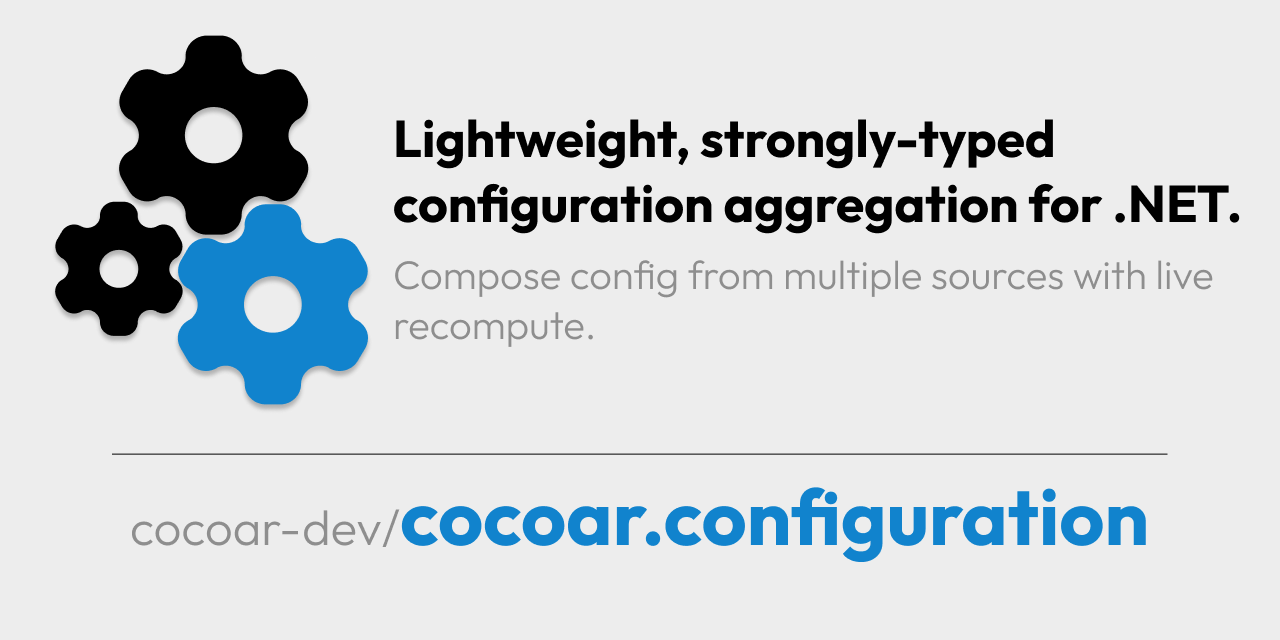
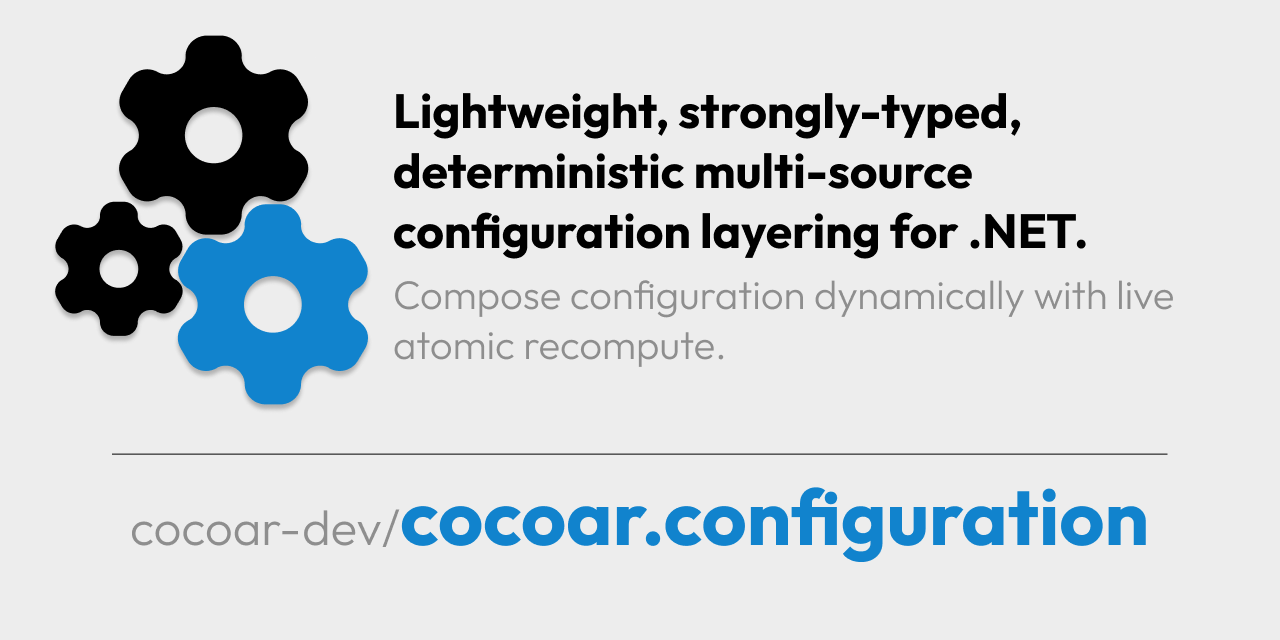
Update README and package metadata for clarity and accuracy; enhance descriptions and improve NuGet package details

Changed region(s): [[0.2812, 0.1562, 0.9688, 0.5625]]

diff --git a/README.md b/README.md
@@ -4,33 +4,53 @@
         <img src="social-preview.png" alt="Cocoar.Configuration" width="520" style="max-width:100%;height:auto;" />
 </p>
 
-Lightweight, strongly-typed configuration aggregation for .NET (current target framework: **net9.0**).
+Lightweight, strongly-typed, deterministic multi-source configuration layering for .NET (current target framework: **net9.0**).
 
-<!-- Badges (NuGet placeholder until published) -->
 ![Build (develop)](https://github.com/cocoar-dev/cocoar.configuration/actions/workflows/push-develop.yml/badge.svg)
 ![PR Validation](https://github.com/cocoar-dev/cocoar.configuration/actions/workflows/pr-develop.yml/badge.svg)
 ![License: MIT](https://img.shields.io/badge/license-MIT-blue.svg)
-<!-- Future: NuGet badge once package is public -->
-<!-- ![NuGet](https://img.shields.io/nuget/v/Cocoar.Configuration.svg) -->
+[![NuGet](https://img.shields.io/nuget/v/Cocoar.Configuration.svg)](https://www.nuget.org/packages/Cocoar.Configuration/)
+[![Downloads](https://img.shields.io/nuget/dt/Cocoar.Configuration.svg)](https://www.nuget.org/packages/Cocoar.Configuration/)
 
-> **At a glance**
-> * Layer multiple sources (files, environment variables, HTTP, adapters) with deterministic **last‑write‑wins** merge
-> * Providers return JSON objects; some emit change signals for live updates
-> * On any change a full ordered recompute occurs; result swap is atomic
-> * Direct DI access to your config types (no required `IConfiguration` / `IOptions` wrappers)
 
 ---
 
-## Supported Framework & Packages (Current State)
+## Why Cocoar Instead of Plain `IConfiguration`?
 
-Currently only **net9.0** is built. Multi-targeting can be added later.
+| Aspect | Cocoar.Configuration | Plain `IConfiguration` |
+|--------|----------------------|------------------------|
+| Strong typing | Inject concrete / interface config types directly | Bind then wrap in `IOptions<T>` |
+| Multi-source layering | Explicit ordered rule list (deterministic) | Registration / provider order sensitive |
+| Change handling | Atomic full recompute → consistent snapshot | Incremental lookups; per‑provider reload patterns |
+| Dynamic dependencies | Rules can read in‑progress snapshots | Manual / post-build wiring |
+| Extensibility | Generic provider base + fluent DSL | Implement `IConfigurationSource` / provider |
+| Diagnostics | Access merged snapshot per type | Traverse hierarchical keys manually |
+| Keyed DI & lifetimes | First-class (singleton/scoped/transient + keys) | Manual patterns |
 
-| Package | Description | TFM (current) |
-|---------|-------------|---------------|
-| `Cocoar.Configuration` | Core (File + Environment providers, merge orchestration) | net9.0 |
-| `Cocoar.Configuration.AspNetCore` | WebApplicationBuilder / DI convenience | net9.0 |
+> Use Cocoar when you want deterministic layering, atomic strongly‑typed snapshots, dynamic rule composition and simpler DI. Stick with plain `IConfiguration` for very basic hierarchical key/value scenarios where existing providers already suffice.
+
+---
+
+## At a Glance
+
+- Deterministic ordered merge (last-write-wins per key)
+- Strongly typed injection (no `IOptions` boilerplate required)
+- Change‑aware providers trigger atomic snapshot swaps
+- Dynamic rule factories (rules can depend on earlier config)
+- Extensible provider model (file, environment, HTTP, Microsoft adapter, custom)
+
+---
+
+## Packages & Target Framework
+
+Currently only **net9.0** is shipped. Multi-targeting (e.g. `net8.0`) may be added later.
+
+| Package | Description | TFM |
+|---------|-------------|-----|
+| `Cocoar.Configuration` | Core (file + environment providers, merge orchestration) | net9.0 |
+| `Cocoar.Configuration.AspNetCore` | WebApplicationBuilder / DI convenience extensions | net9.0 |
 | `Cocoar.Configuration.HttpPolling` | HTTP polling provider | net9.0 |
-| `Cocoar.Configuration.MicrosoftAdapter` | Adapter for Microsoft IConfigurationSource | net9.0 |
+| `Cocoar.Configuration.MicrosoftAdapter` | Adapter for Microsoft `IConfigurationSource` | net9.0 |
 
 ### Install (Example)
 ```xml
@@ -91,21 +111,6 @@ var settings = app.Services
 Console.WriteLine($"FeatureX: {settings.EnableFeatureX}, Cache: {settings.CacheSeconds}s");
 ```
 
-Example overlay (JSON + environment):
-```
-appsettings.json (optional):
-{
-    "App": {
-        "ConnectionString": "Server=localhost;Database=MyApp;",
-        "EnableFeatureX": false,
-        "CacheSeconds": 30
-    }
-}
-
-Environment variables:
-APP_EnableFeatureX=true
-APP_CacheSeconds=60
-```
 
 More examples (multi-project solution under `src/Examples/`):
 
@@ -126,16 +131,16 @@ dotnet run --project src/Examples/BasicUsage
 
 ---
 
-## Core Model (Rules, Providers, Merge, Dynamic)
+## Concepts
 
-- **Rule**: Defines source + query + target configuration type
-- **Provider**: Returns a JSON object (optionally emits change signals)
-- **Merge**: Flatten (`Section:Key`) → last-write-wins per key → unflatten → bind to target type
-- **Arrays**: Full replacement (no element-wise merge)
-- **Recompute**: Any change signal triggers full rebuild of all rules in declared order (simple & correct, not minimal)
-- **Dynamic dependencies**: Factories (options/query) may read in-progress snapshots (order matters)
-- **Required vs Optional**: Required failures block the type; optional failures skip that rule
-- **DI Lifetimes & Keyed Services**: Register as Singleton (default), Scoped or Transient (with optional service keys)
+- **Rule**: Defines source + optional query + target configuration type.
+- **Provider**: Pluggable source (file, environment, HTTP, adapter, static, custom) that may emit change notifications.
+- **Merge**: Ordered last-write-wins per flattened key (`Section:Key`) then rebound to your target type.
+- **Arrays**: Replaced as whole values (no element-wise merge) by design.
+- **Recompute**: Any emitting provider triggers full ordered recompute → atomic snapshot swap (simple & predictable).
+- **Dynamic dependencies**: Rule factories (options/query) can read in-progress snapshots produced earlier in the same recompute.
+- **Required vs Optional**: Required rule failure blocks that config type; optional failure skips the layer.
+- **DI Lifetimes & Keys**: Register config types as singleton (default), scoped, transient and/or keyed.
 
 ### Static Provider
 
@@ -161,7 +166,7 @@ Plug any Microsoft `IConfigurationSource` (JSON, XML, Key Vault, User Secrets, e
 Fetch configuration from HTTP endpoints with automatic polling. Only triggers recomputes when response actually changes.
 → Example: [`src/Examples/HttpPollingExample/Program.cs`](src/Examples/HttpPollingExample/Program.cs)
 
-## Providers (Overview)
+## Providers (Built-in & Extensions)
 
 | Provider | Package | Change Signal | Notes |
 |----------|---------|---------------|-------|
@@ -178,38 +183,18 @@ Fetch configuration from HTTP endpoints with automatic polling. Only triggers re
 - [HTTP Polling Provider](src/Cocoar.Configuration.HttpPolling/README.md) - HTTP endpoint polling _(separate package)_
 - [Microsoft Adapter](src/Cocoar.Configuration.MicrosoftAdapter/README.md) - IConfigurationSource integration _(separate package)_
 
-## API Overview
-
-**ConfigManager**
-| Method | Behavior |
-|--------|----------|
-| `GetConfig<T>()` | Snapshot or null; never throws |
-| `GetRequiredConfig<T>()` | Snapshot or exception if missing |
-| `TryGetConfig<T>(out T?)` | true + value if available; else false/null |
-| `GetConfigAsJson(Type)` | Merged JSON (or null) |
-
-**Rule Creation (Fluent)**
-| Entry | Description |
-|-------|-------------|
-| `Rule.From.File(...)` | JSON files (watcher + debounce) |
-| `Rule.From.Environment(...)` | Environment snapshot (optional prefix) |
-| `Rule.From.Http(...)` | (Extension) polling with change detection |
-| `Rule.From.Provider<TProv,TOpt,TQuery>(...)` | Generic provider entry point |
-| `Rule.From.Static(...)` | Static object (seeding / defaults) |
 
 Semantics: Use Optional for non-critical layers; Required enforces presence.
 
-## Extensibility (Third-Party Providers)
+### Extensibility
 
-Cocoar.Configuration is designed to be extensible. Third-party packages can add their own fluent entry points (like `Rule.From.MyProvider()`) without modifying the core library.
+Create third‑party providers by implementing the generic provider base and adding fluent entry points (e.g. `Rule.From.MyProvider()`). See the [Provider Development Guide](src/Cocoar.Configuration/Providers/README.md) for:
+- Custom provider implementation patterns
+- Fluent API extension guidance
+- Instance lifecycle & change emission
+- Testing strategies
 
-**For provider developers:** See the [Provider Development Guide](src/Cocoar.Configuration/Providers/README.md) for complete documentation on:
-- Implementing custom providers with the `ConfigSourceProvider<TInstanceOptions,TQueryOptions>` base class
-- Creating fluent extension methods for your provider
-- Provider lifecycle management and change emission patterns
-- Testing strategies and best practices
-
-**For users:** Simply install third-party provider packages and use their fluent APIs alongside the built-in providers.
+Users just install the provider package and compose alongside built-ins.
 
 ---
 
@@ -224,7 +209,7 @@ Cocoar.Configuration is designed to be extensible. Third-party packages can add 
 
 ---
 
-## Examples (Overview)
+## Examples
 
 Multi-project examples live under [`src/Examples/`](src/Examples/) (see [`src/Examples/README.md`](src/Examples/README.md)). Each folder is a runnable console (or minimal) project with its own `Program.cs`:
 
@@ -260,26 +245,26 @@ dotnet run --project src/Examples/GenericProviderAPI
 
 ---
 
-## How It Works (Detail)
+## Deep Dive: Execution & Merge Pipeline
 
-- You define rules. Each rule targets a specific config type (class/interface) and queries exactly one provider to produce a JSON object.
-- For a given type T, Cocoar starts from T's defaults and merges each rule's JSON into T in the configured order (last-write-wins, key-by-key).
-- During a recompute, a rule can read the current in-progress snapshot from the ConfigManager (any type). This enables dynamic rules whose options depend on values produced by earlier rules in the same recompute.
-- Objects are flattened into colon-keys (e.g., `Section:Enabled`), merged in order, then unflattened and deserialized into your target type.
+- Each rule targets one configuration type and queries exactly one provider to contribute a structured layer.
+- A recompute builds an ordered list of layers, flattens them into colon keys, applies last-write-wins per key, then materializes a fresh typed snapshot.
+- Dynamic factories may read snapshots already built earlier in the recompute to influence later rule options or queries.
+- Arrays are replaced whole; objects merge by key; nulls follow default JSON deserialization semantics.
 
-### Change model and recompute
+### Change Model
 
 - Providers may emit change notifications (e.g., file watcher, HTTP polling). The environment provider typically does not emit by default and is treated as snapshot input.
 - On any provider change, Cocoar recomputes all rules for all target types in order and atomically swaps the cache. Consumers see consistent snapshots.
 - If your rule factories (options/query) depend on current config, provider instances/subscriptions are rebuilt during recompute so dynamic dependencies take effect.
 
-### Required vs optional rules
+### Required vs Optional Rules
 
 - Each rule can be marked required or optional.
 - Required: failures (e.g., missing file, HTTP error) cause the recompute to fail for that rule/type.
 - Optional: failures are tolerated and the rule is skipped for that recompute.
 
-### Ordering and dependencies
+### Ordering & Dependencies
 
 - Place dependency-producing rules before dependency-consuming rules.
 - Rules may read any type's current snapshot during recompute. Avoid circular dependencies across types or rules to prevent surprises.
@@ -289,7 +274,7 @@ dotnet run --project src/Examples/GenericProviderAPI
 - GetConfig<T>() returns null if T does not exist; handle nulls explicitly when reading dependencies.
 - For guaranteed existence, seed the dependency type with an explicit rule (e.g., a static provider/factory rule — see `Rule.From.Static`).
 
-### Merge semantics and limits
+### Merge Semantics & Limits
 
 - Last-write-wins, key-by-key merge of JSON objects using colon-key flattening.
 - Arrays are replace-only by design; an array value replaces the prior value at that key (no merging).
@@ -317,31 +302,11 @@ Issues and PRs welcome. Please keep provider abstractions stable and determinist
 
 For deeper details, examples, and roadmap, check src/Cocoar.Configuration/README.md and ARCHITECTURE.md.
 
----
-
-## Current Limitations (Current State)
-
-**Recompute model:** On any change emission, the manager recomputes all rules from scratch in order (last-write-wins merge). This is simple and correct but not minimal; a future optimization could recompute only affected rules downstream from the changed provider.
-
-**Provider lifecycle:** Managed by an internal `RuleManager` per rule which reuses providers when instance options don't change and rebuilds subscriptions when query options change. This enables dynamic factories without recreating instances unnecessarily.
-
-**Array merge semantics:** Arrays are replaced completely (not merged element-wise). Objects are flattened to colon keys and merged key-by-key. Additional array strategies (append/merge/custom) are under consideration.
-
-**Null/empty handling:** Edge cases (nulls and empty objects) follow JSON deserialization defaults after key merge. Precise behavior will be documented as the API stabilizes.
-
-**Change emissions:** Environment provider does not emit changes by default (snapshot only). File provider emits on filesystem changes. If you need change-driven recompute for environment variables, combine with other providers that do emit.
-
-**Circular dependencies:** Rules can read any type's current snapshot during recompute via `GetConfig<T>()` calls in options/query factories. Avoid circular dependencies across types; detection/guardrails may be added.
-
-**DI lifetimes:** Configuration types are registered as singletons by default. Support for scoped/transient lifetimes exists but may evolve.
-
----
 
 ## Roadmap (Short)
 
 - **Partial recompute:** Only recompute rules downstream from changed providers to reduce work on frequent changes
 - **Provider pooling:** Better lifecycle reuse across recomputes with `IDisposable` support for long-lived connections  
-- **Array merge strategies:** Replace (current) / append / custom merge logic for array values
 - **Clean up naming:** Minor inconsistencies (e.g., env prefix vs memberPath terminology) for better API consistency
 - **Additional providers:** HTTP Server-Sent Events, SignalR live streams, timer-less push models
 - **Nullability improvements:** Tidy up nullable reference type annotations across the API surface
@@ -354,16 +319,4 @@ See [ARCHITECTURE.md](src/Cocoar.Configuration/ARCHITECTURE.md) & provider READM
 
 ---
 
-## Why Not Just Microsoft IConfiguration?
-
-| Aspect | `Cocoar.Configuration` | Plain `IConfiguration` |
-|--------|------------------------|------------------------|
-| Strong typing | Direct injection of concrete / interface config types | Manual binding or `IOptions<T>` wrappers |
-| Multi-source layering | Explicit, ordered rule list (deterministic) | Order influenced by registration / provider ordering |
-| Change handling | Atomic full recompute with dynamic rule factories | Incremental value lookups; custom reload logic per provider |
-| Dynamic dependencies | Rules can read in-progress snapshots | Typically manual: pull values after build or inside factories |
-| Extensibility model | Generic provider base + fluent rule DSL | Add or implement `IConfigurationSource` / `IConfigurationProvider` |
-| Diagnostics | Access merged JSON per type | Must traverse configuration tree / know keys |
-| Keyed DI & lifetimes | Built-in for each config type | Additional wiring required |
-
-Use Cocoar when you want deterministic layering, dynamic dependency evaluation, atomic snapshots and strongly typed access without repetitive binding code. Stay with plain `IConfiguration` if you only need a simple hierarchical key/value store and existing providers already cover your scenario.
+<!-- Comparison moved near top as "Why Cocoar Instead of Plain IConfiguration?" -->